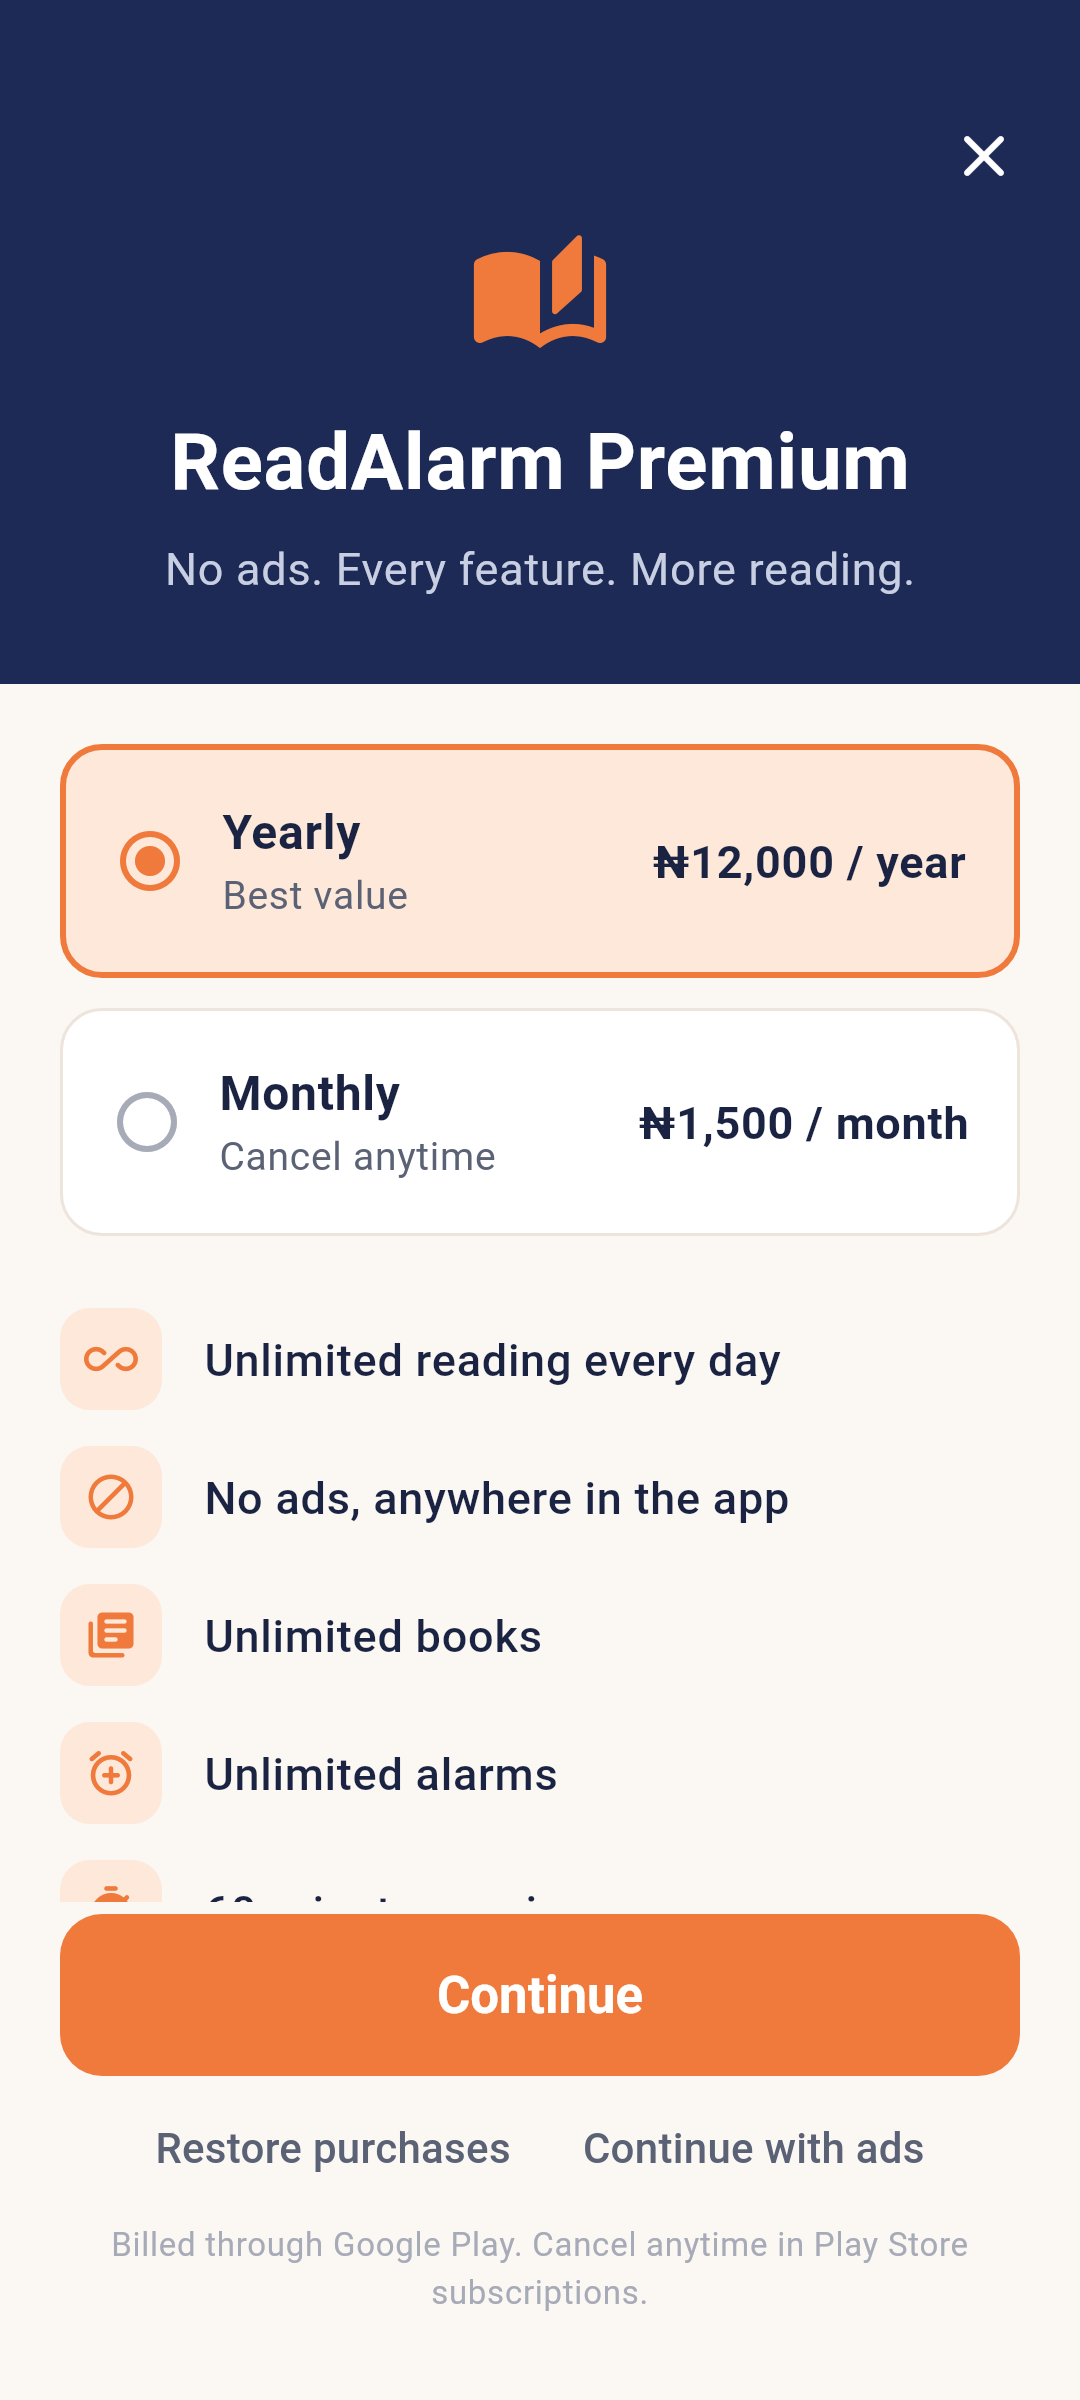
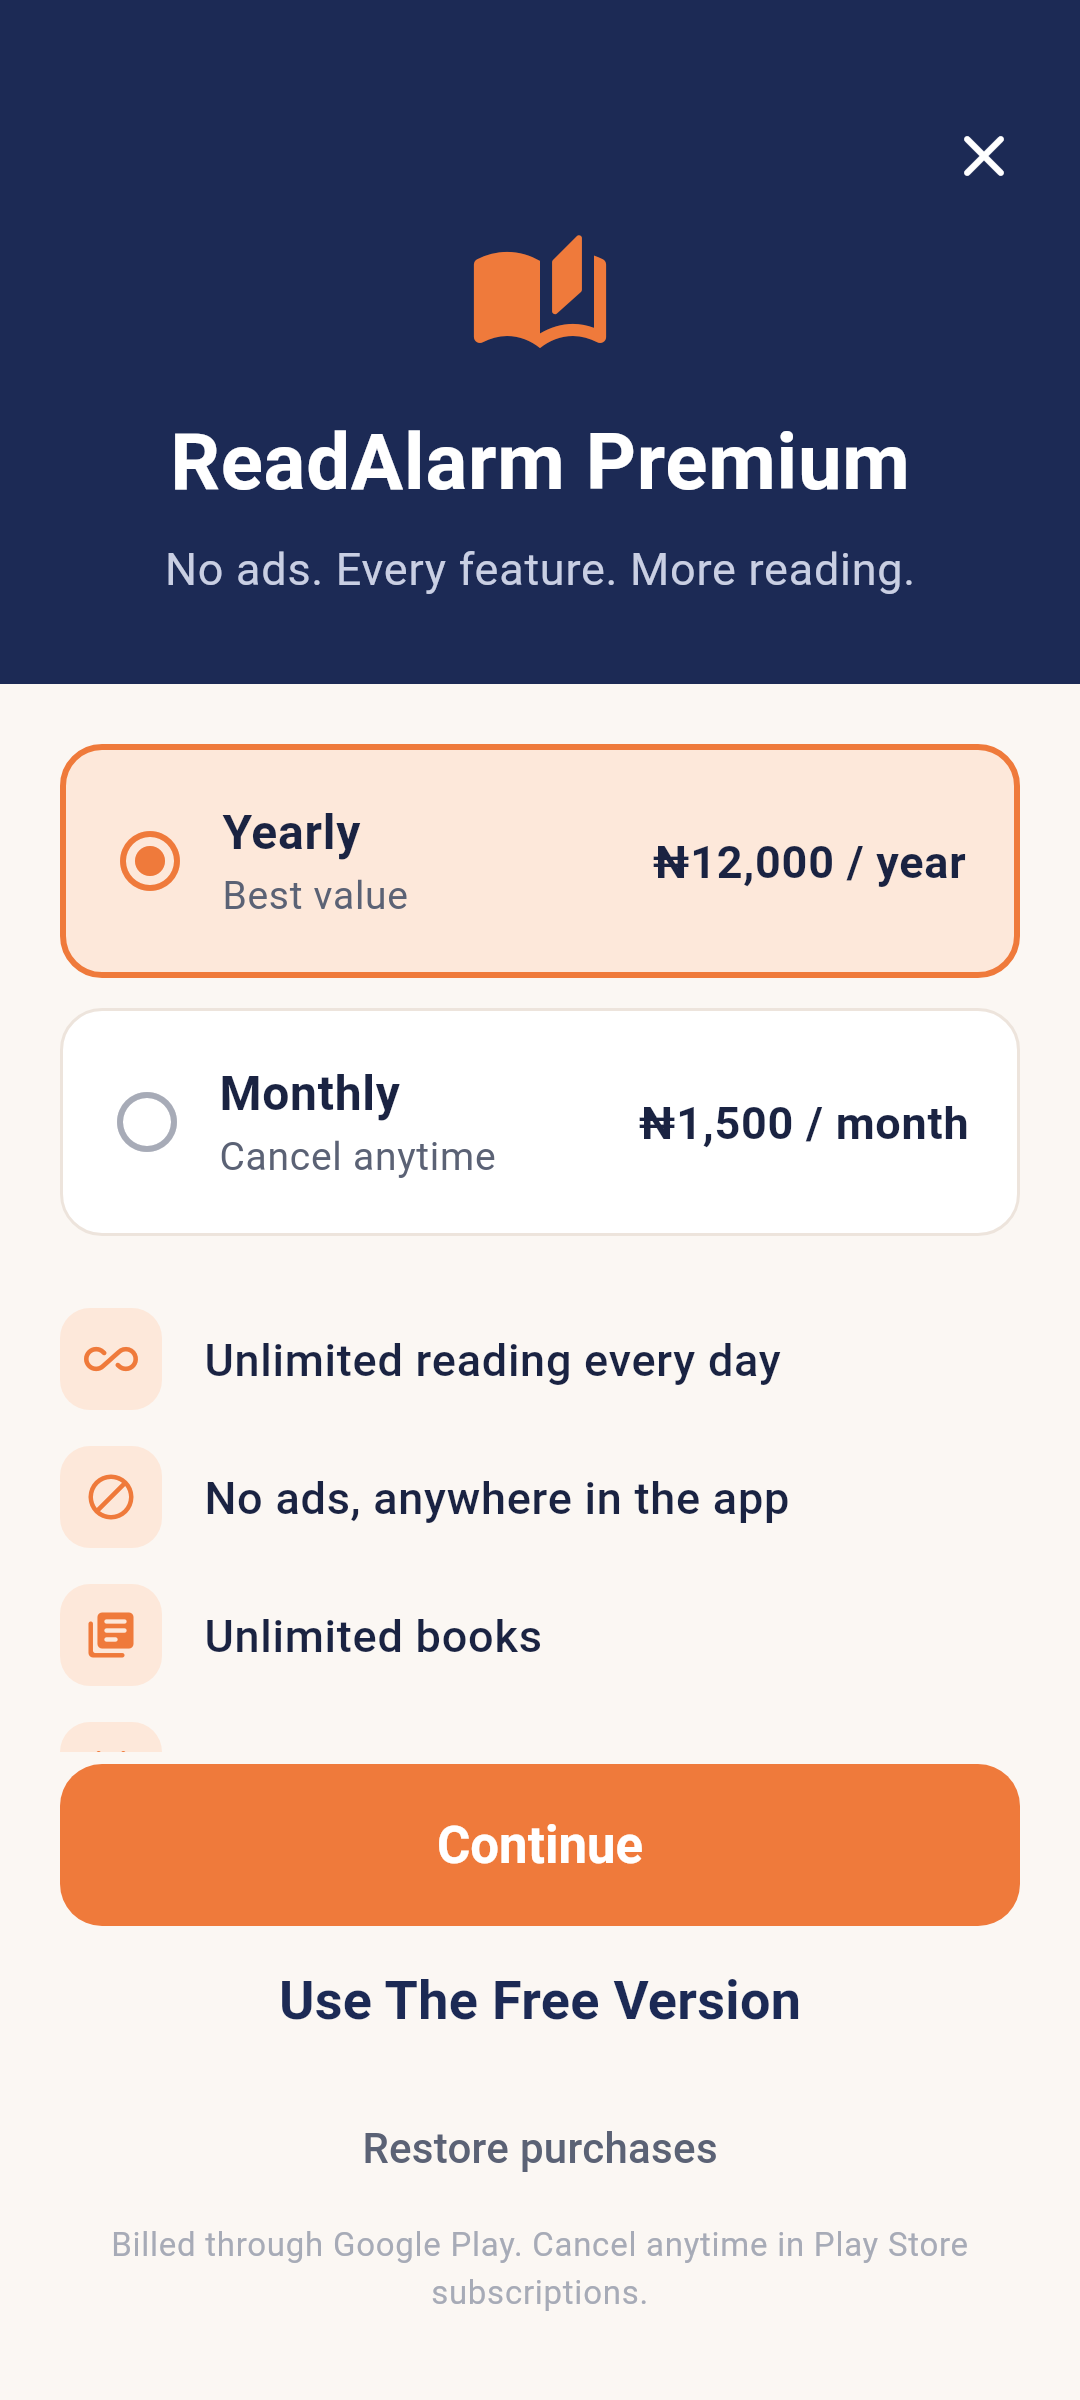
Paywall: "Use The Free Version" in large bold navy
The paywall's free option read "Continue with ads" in small grey text
beside "Restore purchases". It now reads "Use The Free Version", in
18pt bold navy, on its own full-width line under Continue, with
"Restore purchases" below it.

Tests and screenshots updated.

Claude-Session: https://claude.ai/code/session_011wqcfZCEUU19ShiaM9zG3S

Changed region(s): [[0.0306, 0.7188, 0.9472, 0.9062]]

diff --git a/lib/screens/paywall_screen.dart b/lib/screens/paywall_screen.dart
@@ -1,6 +1,7 @@
 import 'package:flutter/material.dart';
 import '../state/app_state.dart';
 import '../theme/app_colors.dart';
+import '../theme/app_theme.dart';
 import '../widgets/common.dart';
 
 /// Why the paywall was shown.
@@ -168,20 +169,29 @@ class _PaywallScreenState extends State<PaywallScreen> {
                     label: cta,
                     onPressed: _purchase,
                   ),
-                  Row(
-                    mainAxisAlignment: MainAxisAlignment.center,
-                    children: [
-                      TextButton(
-                        onPressed: _restore,
-                        child: const Text('Restore purchases',
-                            style: TextStyle(color: AppColors.textSecondary)),
+                  // The free option: as clear a choice as Premium.
+                  SizedBox(
+                    width: double.infinity,
+                    child: TextButton(
+                      onPressed: () => Navigator.pop(context),
+                      style: TextButton.styleFrom(
+                        padding: const EdgeInsets.symmetric(vertical: 12),
                       ),
-                      TextButton(
-                        onPressed: () => Navigator.pop(context),
-                        child: const Text('Continue with ads',
-                            style: TextStyle(color: AppColors.textSecondary)),
+                      child: const Text(
+                        'Use The Free Version',
+                        style: TextStyle(
+                          fontFamily: AppTheme.fontFamily,
+                          color: AppColors.navy,
+                          fontSize: 18,
+                          fontWeight: FontWeight.w700,
+                        ),
                       ),
-                    ],
+                    ),
+                  ),
+                  TextButton(
+                    onPressed: _restore,
+                    child: const Text('Restore purchases',
+                        style: TextStyle(color: AppColors.textSecondary)),
                   ),
                   const Text(
                     'Billed through Google Play. Cancel anytime in Play Store subscriptions.',

diff --git a/test/app_flow_test.dart b/test/app_flow_test.dart
@@ -70,7 +70,7 @@ void main() {
     expect(find.text('Continue'), findsOneWidget);
     expect(find.textContaining('trial'), findsNothing);
     expect(state.onboardingDone, isFalse);
-    await tapText(tester, 'Continue with ads');
+    await tapText(tester, 'Use The Free Version');
     expect(state.isPremium, isFalse);
 
     expect(state.onboardingDone, isTrue);

diff --git a/screenshot_test/screenshots_test.dart b/screenshot_test/screenshots_test.dart
@@ -103,7 +103,7 @@ void main() {
 
     await tapText(tester, 'Finish setup');
     await _shot(tester, '11_paywall');
-    await tapText(tester, 'Continue with ads');
+    await tapText(tester, 'Use The Free Version');
     await _shot(tester, '12_home_first_run');
 
     await _finish(tester, state);
